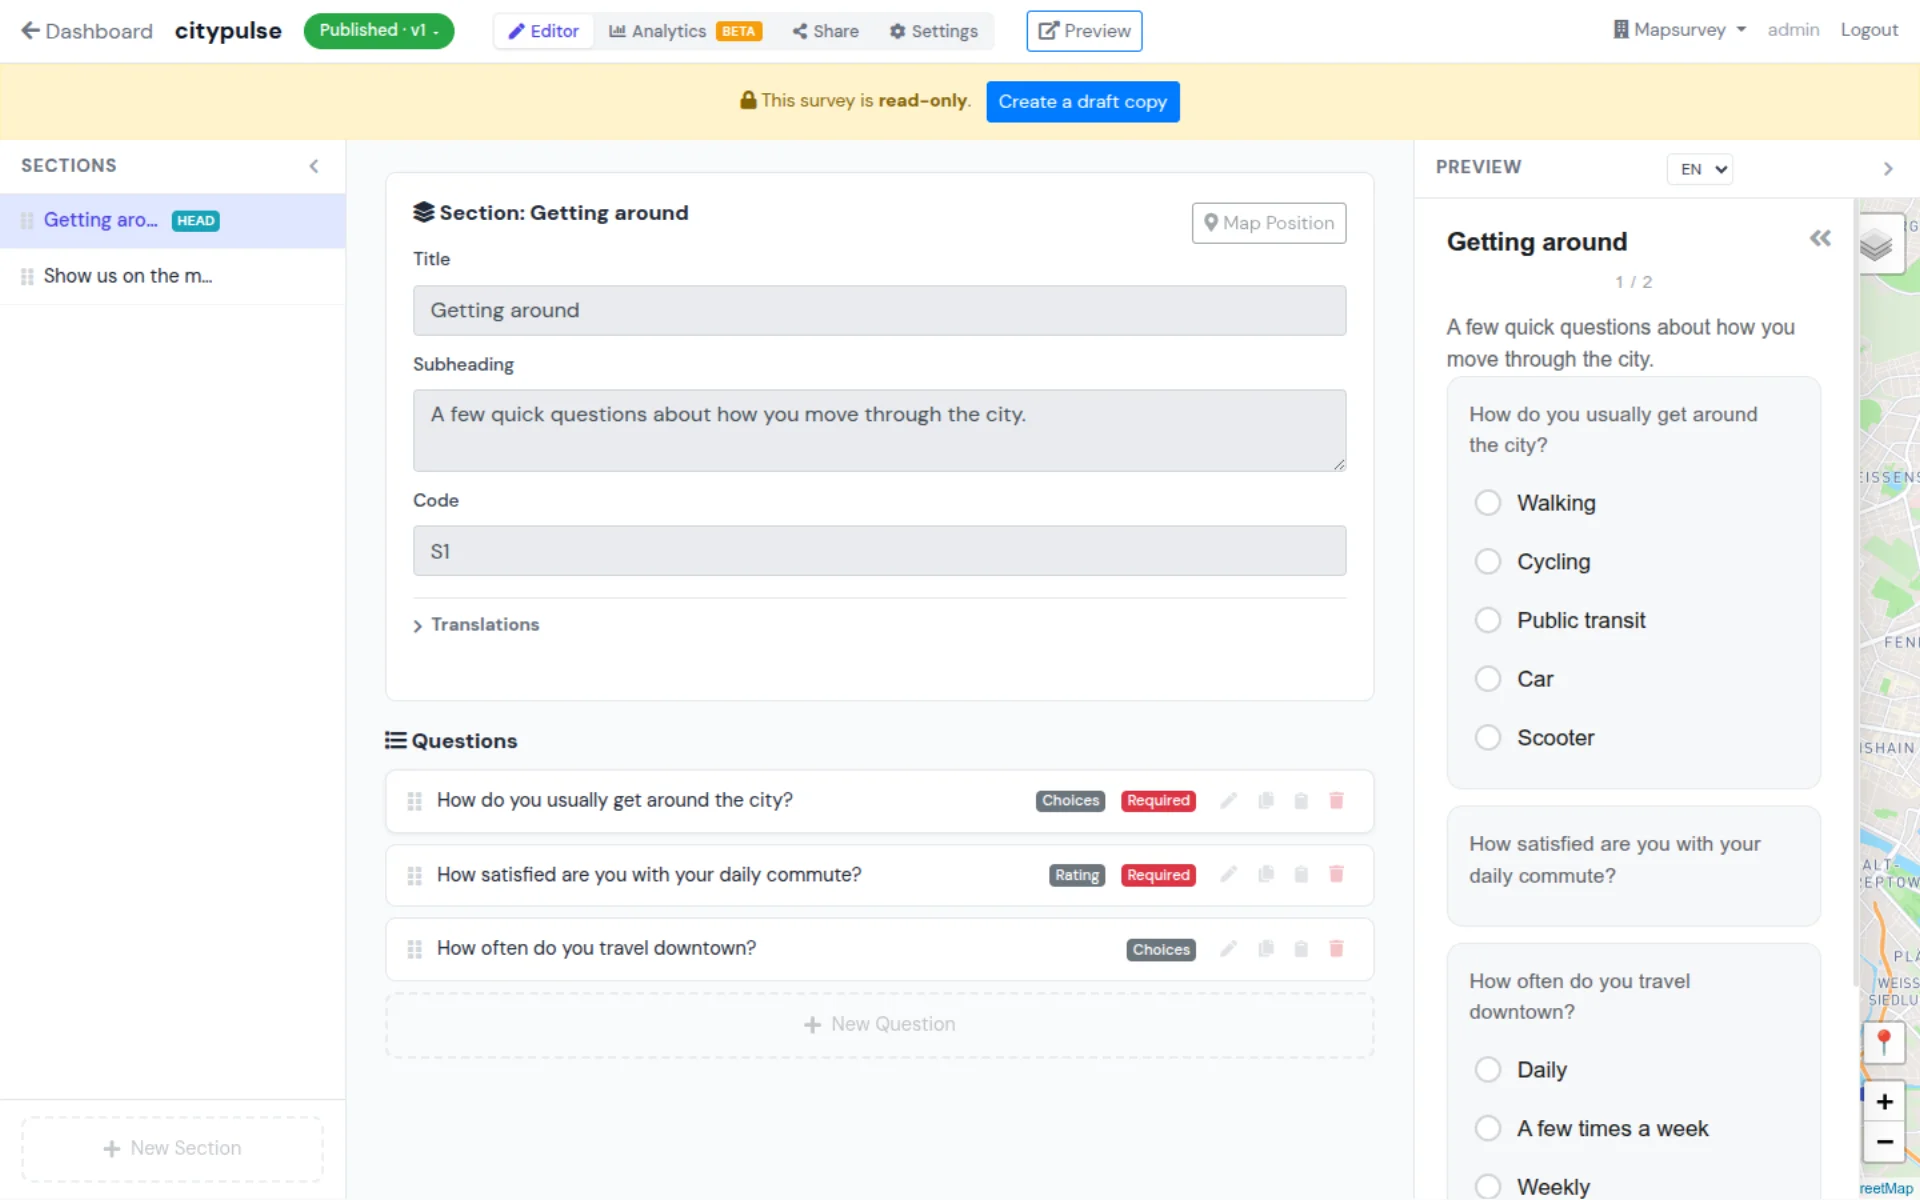
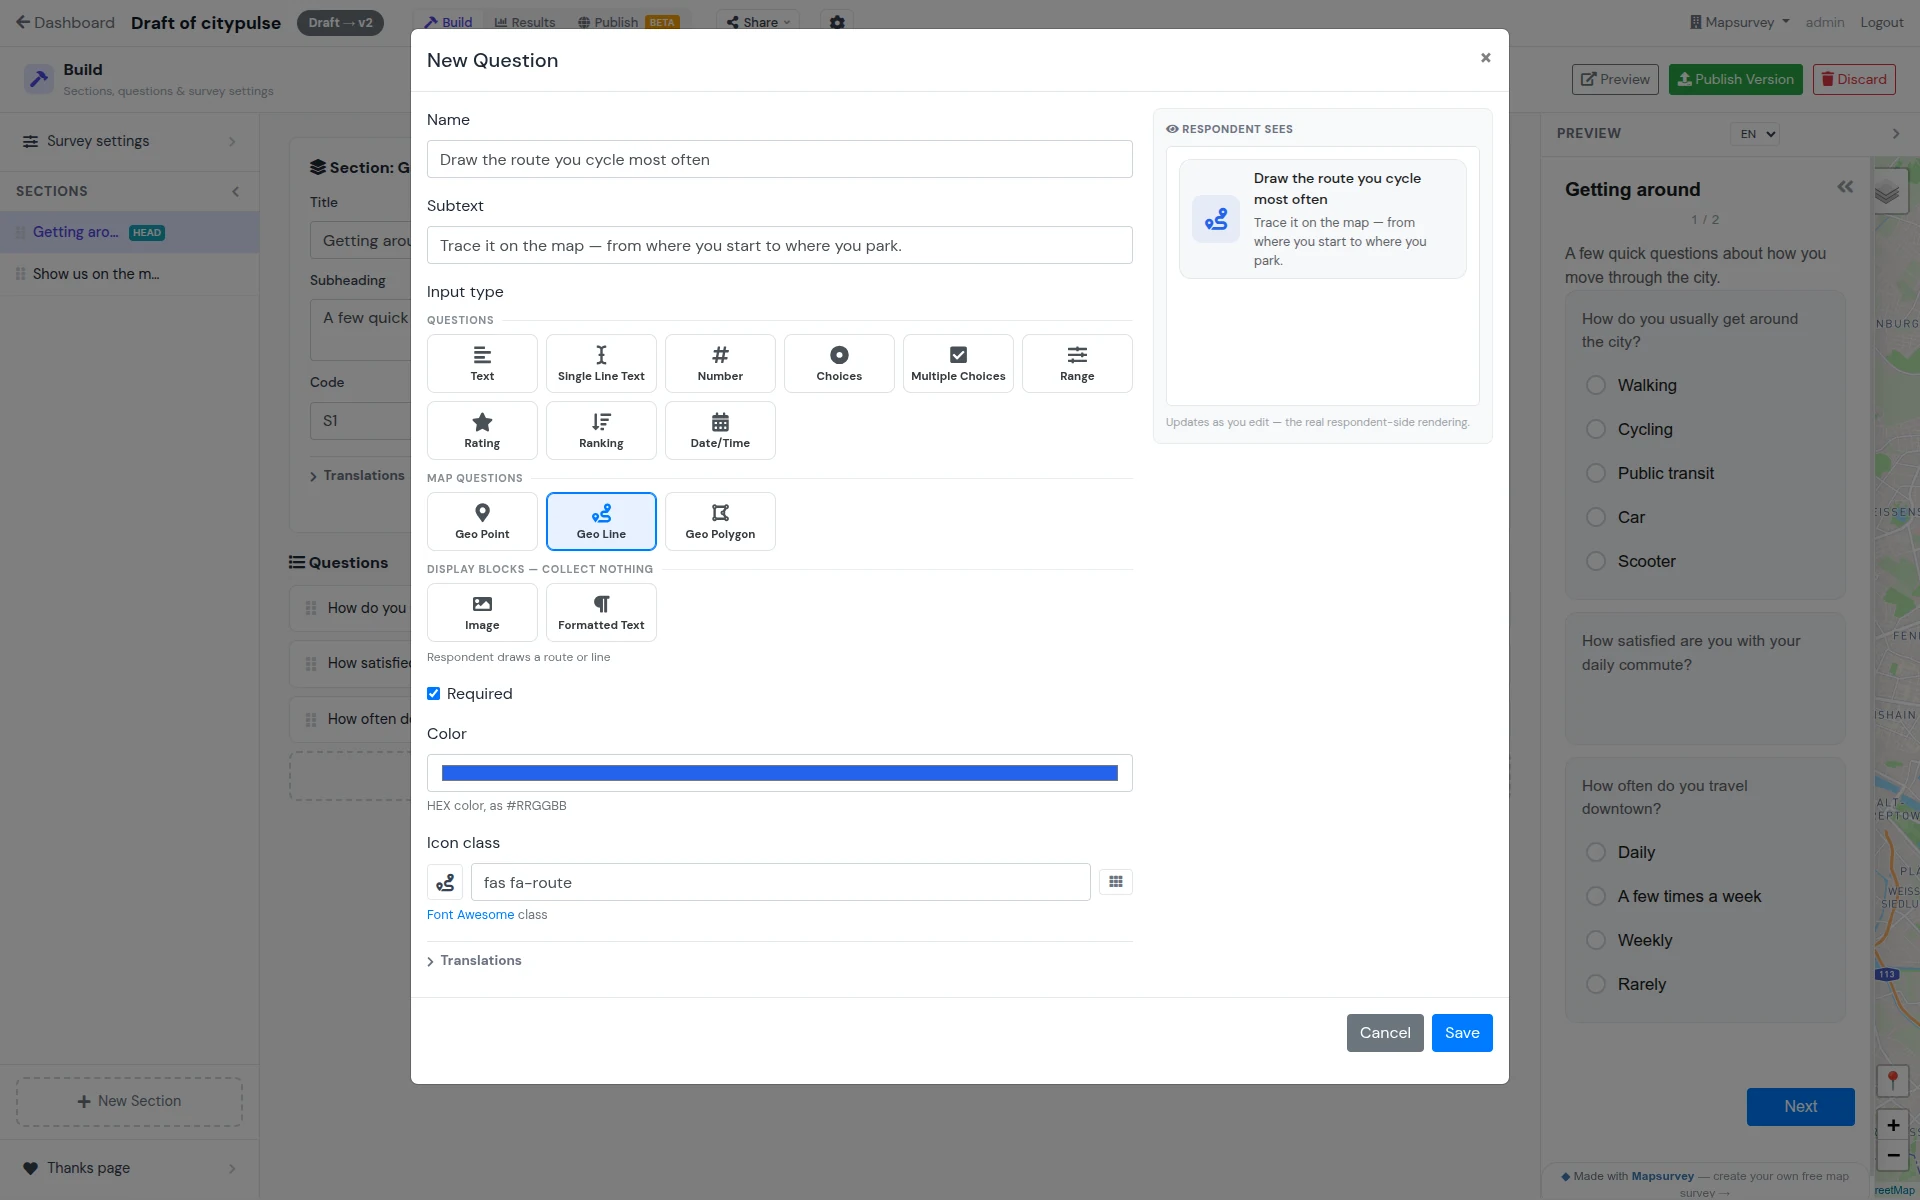
feat(landing): the BUILD step now leads with the AI draft
The showcase's first step described a drag-and-drop editor and never
mentioned that a survey now starts as an AI-written draft — the primary
path in /editor/surveys/create/. AI appeared nowhere on the landing page
at all.

Rewrites the copy around the actual flow (describe the project → AI
writes sections, questions and translations → you edit anything), and
replaces the screenshot: instead of the section form, it now shows the
question editor with the full type grid — Questions, Map questions
(Geo Line selected), Display blocks — beside the live preview.

Question types are no longer counted ("13 question types"); the number
ages badly and says less than the grid in the screenshot does.

diff --git a/survey/templates/landing.html b/survey/templates/landing.html
@@ -48,14 +48,14 @@
             <div class="showcase-row__media">
                 <button type="button" class="shot" data-shot="{% static 'img/landing/build-full.webp' %}" aria-label="{% trans 'Enlarge screenshot' %}">
                     <span class="shot__chrome"><i></i><i></i><i></i></span>
-                    <img src="{% static 'img/landing/build.webp' %}" alt="{% trans 'Mapsurvey visual survey editor' %}" loading="lazy">
+                    <img src="{% static 'img/landing/build.webp' %}" alt="{% trans 'Mapsurvey question editor: question types, including map questions, with a live preview' %}" loading="lazy">
                     <span class="shot__zoom" aria-hidden="true">⤢</span>
                 </button>
             </div>
             <div class="showcase-row__text">
                 <div class="showcase-step">01 &middot; {% trans "BUILD" %}</div>
-                <h3>{% trans "Build visually" %}</h3>
-                <p>{% trans "Drag-and-drop editor with a live preview. 13 question types — text, choice, rating, and three map types. No code." %}</p>
+                <h3>{% trans "AI drafts it, you edit visually" %}</h3>
+                <p>{% trans "Describe your project and AI writes the sections, questions and translations for you. Then change anything in the drag-and-drop editor with a live preview — text, choice and rating questions, plus points, lines and areas on the map. No code." %}</p>
             </div>
         </div>
 
